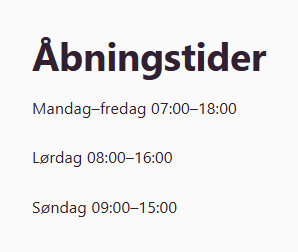
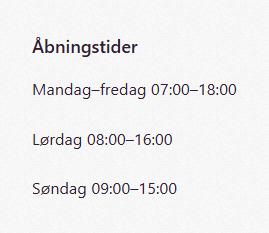
Footer and gaps

diff --git a/slices/FooterColumnLinks/index.tsx b/slices/FooterColumnLinks/index.tsx
@@ -4,7 +4,7 @@ import type { SliceComponentProps } from "@prismicio/react";
 import { FooterLinkList } from "@/src/components/footer/parts/FooterLinkList";
 import type { EviFooterSliceContext } from "@/src/components/footer/types";
 import { EviStack } from "@/src/components/layout/EviStack";
-import { EviRichText } from "@/src/components/typography/EviRichText";
+import { EviTitle } from "@/src/components/typography/EviTitle";
 import { has_rich_text } from "@/src/lib/prismic/fields";
 import { is_link_filled } from "@/src/lib/prismic/links";
 
@@ -28,7 +28,7 @@ export default function FooterColumnLinks({
 
   return (
     <EviStack gap="md" data-slot="footer-column" data-variant="links">
-      <EviRichText field={primary.heading} linkResolver={linkResolver} />
+      <EviTitle field={primary.heading} linkResolver={linkResolver} />
       <FooterLinkList items={primary.links} linkResolver={linkResolver} />
     </EviStack>
   );

diff --git a/slices/FooterColumnText/index.tsx b/slices/FooterColumnText/index.tsx
@@ -3,6 +3,7 @@ import type { SliceComponentProps } from "@prismicio/react";
 
 import type { EviFooterSliceContext } from "@/src/components/footer/types";
 import { EviRichText } from "@/src/components/typography/EviRichText";
+import { EviTitle } from "@/src/components/typography/EviTitle";
 import { EviStack } from "@/src/components/layout/EviStack";
 import { has_rich_text } from "@/src/lib/prismic/fields";
 
@@ -24,7 +25,7 @@ export default function FooterColumnText({
 
   return (
     <EviStack gap="md" data-slot="footer-column" data-variant="text">
-      <EviRichText field={primary.heading} linkResolver={linkResolver} />
+      <EviTitle field={primary.heading} linkResolver={linkResolver} />
       <EviRichText field={primary.body} linkResolver={linkResolver} />
     </EviStack>
   );

diff --git a/src/components/layout/EviAutoGrid.tsx b/src/components/layout/EviAutoGrid.tsx
@@ -44,7 +44,7 @@ const sizeClasses: Record<AutoGridSize, string> = {
 };
 
 const gapClasses: Record<AutoGridGap, string> = {
-  card: "gap-x-4 gap-y-8 md:gap-x-8 md:gap-y-12",
+  card: "gap-8 md:gap-12",
   compact: "gap-2",
 };
 
